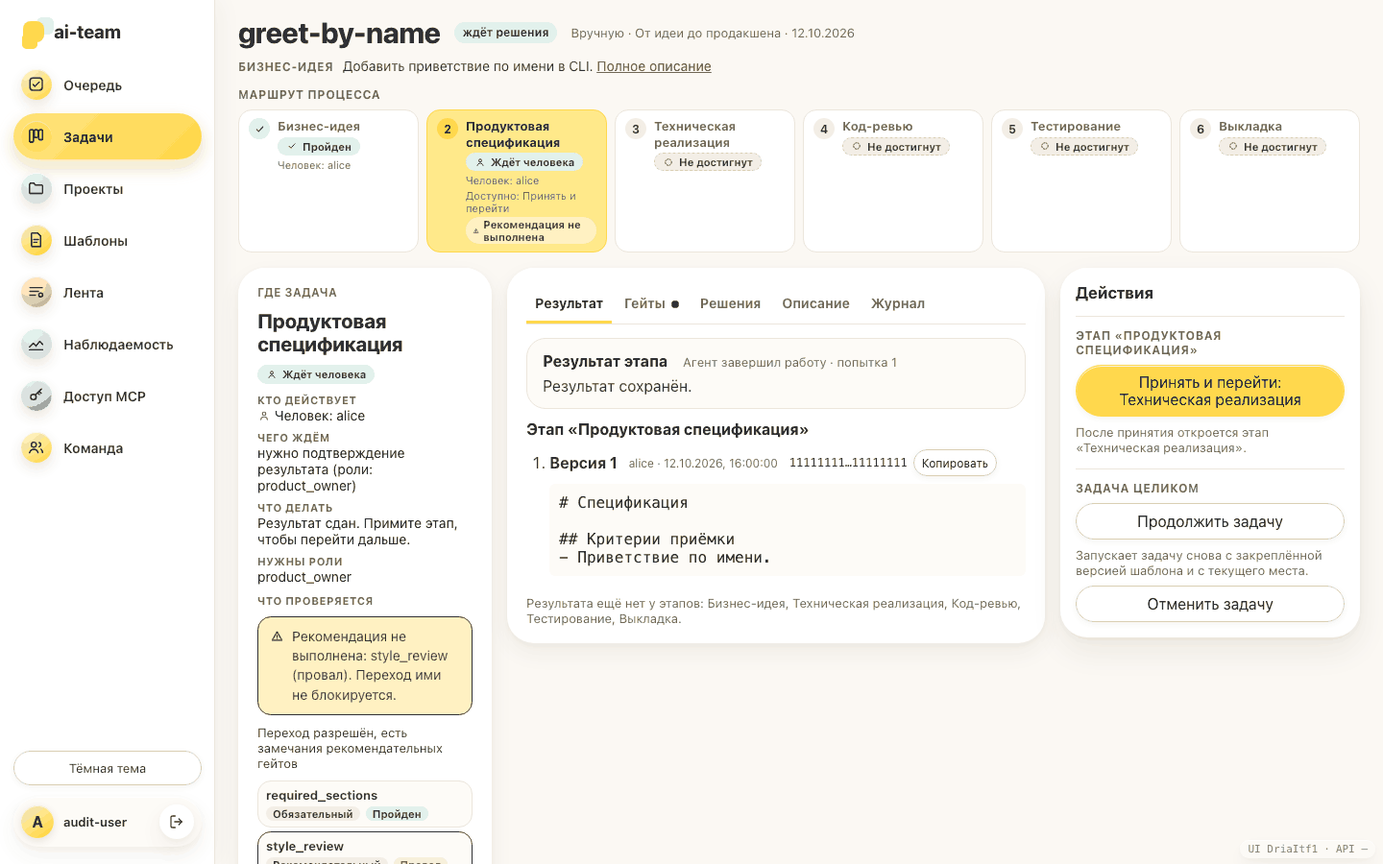
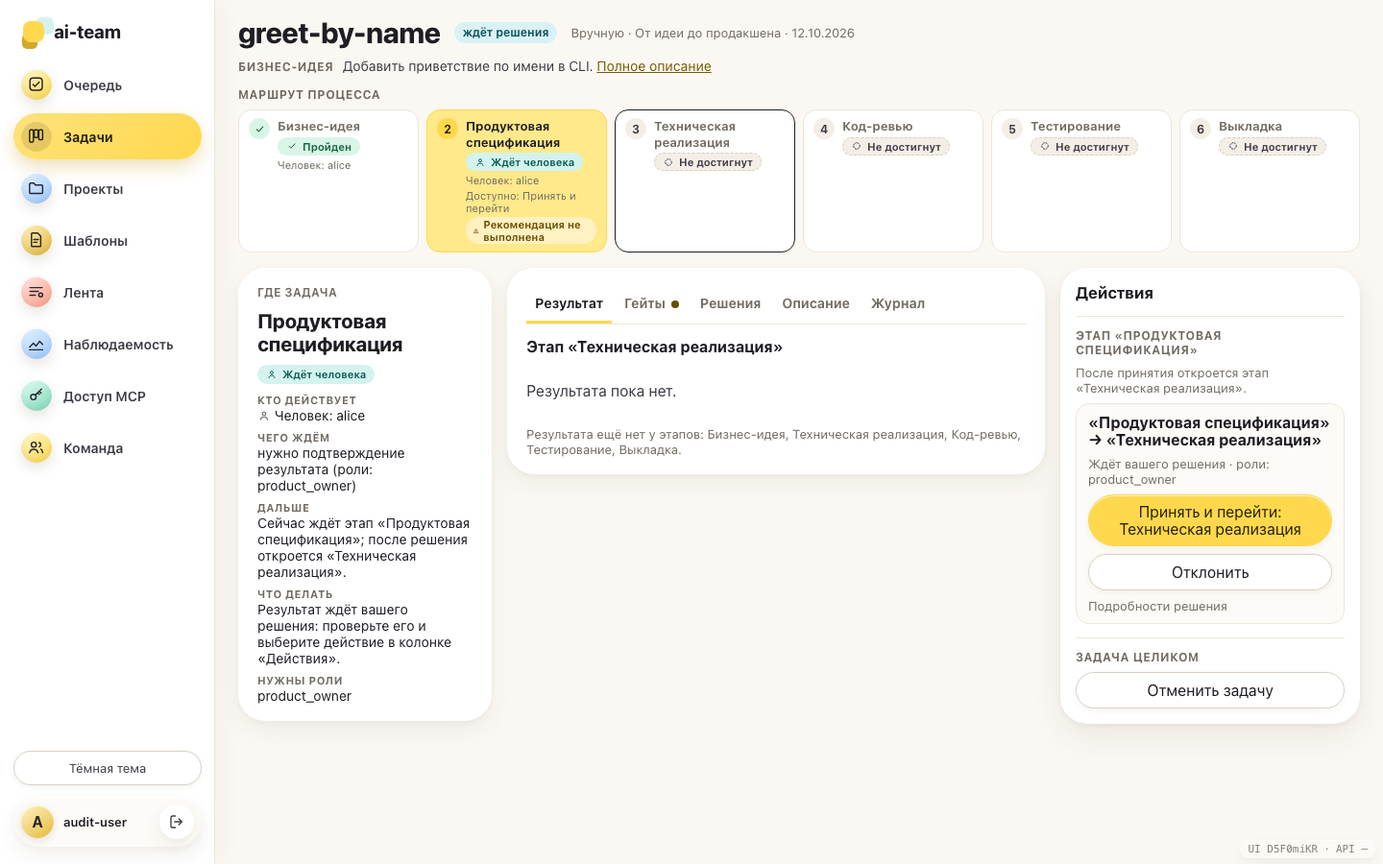
test(web): real-shaped audit fixtures, transition return and focus order specs, refreshed audit README (S16)

diff --git a/web/e2e/audit-fixtures.js b/web/e2e/audit-fixtures.js
@@ -55,9 +55,19 @@ const inputApproval = (stage, roles = ['product_owner']) => ({
   subject_hash: hash('a'), required_roles: roles, quorum: 'any', actions: ['submit', 'run_agent'], status: 'pending', created_at: at,
 })
 
-const checkApproval = (stage, to, roles = ['product_owner'], extra = {}) => ({
-  id: `check-${stage}`, run_id: 'run-audit', attempt_id: `${stage}-attempt`, from_stage: stage, to_stage: to, kind: 'approve', trigger: 'stage_check',
+// The confirmation of a transition as the controller writes it: trigger graph_outcome:<outcome> (a
+// failed check is a check_decision with the trigger stage_check, never this), from_stage is the stage
+// being confirmed, to_stage the stage the task moves to.
+const transitionApproval = (stage, to, roles = ['product_owner'], extra = {}) => ({
+  id: `gate-${stage}`, run_id: 'run-audit', attempt_id: `${stage}-attempt-1`, from_stage: stage, to_stage: to, kind: 'approve', trigger: 'graph_outcome:passed',
   subject_hash: hash('c'), required_roles: roles, quorum: 'any', actions: ['approve', 'reject'], targets: { approve: to }, status: 'pending', created_at: later, ...extra,
+})
+
+// A failed required check: kind check_decision, trigger stage_check, the decision stays at the stage.
+const checkApproval = (stage, roles = ['product_owner'], extra = {}) => ({
+  id: `check-${stage}`, run_id: 'run-audit', attempt_id: `${stage}-attempt-1`, from_stage: stage, to_stage: stage, kind: 'check_decision', trigger: 'stage_check',
+  subject_hash: hash('c'), required_roles: roles, quorum: 'any', actions: ['new_version', 'override', 'return'],
+  targets: { new_version: stage, override: stage, return: stage }, status: 'pending', created_at: later, payload: { kind: 'check_decision', status: 'fail' }, ...extra,
 })
 
 const attempt = (stage, index, status, extra = {}) => ({
@@ -164,14 +174,15 @@ export const scenarios = {
     title: 'Ждёт человека: принять результат',
     roles: ['product_owner'],
     run: { status: 'waiting_for_approval' },
-    state: { phase: 'waiting', next_stage: 'product_spec', pending_approval_id: 'check-product_spec' },
+    // While the confirmation waits the checkpoint already points at the next stage; the stage that waits is product_spec.
+    state: { phase: 'waiting', next_stage: 'implementation', pending_approval_id: 'gate-product_spec' },
     stages: [attempt('product_spec', 1, 'passed')],
-    approvals: [checkApproval('product_spec', 'implementation')],
+    approvals: [transitionApproval('product_spec', 'implementation')],
     results,
     allowed: ['confirm'],
-    statuses: statuses(1, { status: 'awaiting_human', readiness: 'engaged', phase: 'awaiting_human', outcome: 'passed', executor: human('alice'), blocked_by: { kind: 'approval', roles: ['product_owner'], actions: ['approve'] }, allowed_actions: ['confirm'] }),
+    statuses: statuses(1, { status: 'awaiting_human', readiness: 'engaged', phase: 'awaiting_human', outcome: 'passed', executor: human('alice'), blocked_by: { kind: 'approval', roles: ['product_owner'], actions: ['approve'] }, allowed_actions: ['confirm'], action_stage_id: 'implementation' }),
     gates: gatesOf('product_spec', wave('product_spec', [gate('required_sections', 'succeeded', 'pass'), gate('agent_review', 'succeeded', 'pass')], { allowed: true, state: 'passed' })),
-    expect: { chip: 'Ждёт человека', buttons: ['Принять и перейти: Техническая реализация'] },
+    expect: { chip: 'Ждёт человека', buttons: ['Принять и перейти: Техническая реализация'], decides: { stage: 'product_spec', approvalID: 'gate-product_spec', action: 'approve' } },
   },
   grill: {
     title: 'Ждёт человека: вопросы грилла',
@@ -179,7 +190,7 @@ export const scenarios = {
     run: { status: 'waiting_for_approval' },
     state: { phase: 'waiting', next_stage: 'product_spec', pending_approval_id: 'grill-1' },
     stages: [attempt('product_spec', 1, 'passed')],
-    approvals: [{ ...checkApproval('product_spec', 'product_spec'), id: 'grill-1', kind: 'grill_questions', trigger: 'grill_questions', actions: ['answer', 'new_version', 'done'],
+    approvals: [{ ...checkApproval('product_spec'), id: 'grill-1', kind: 'grill_questions', trigger: 'grill_questions', actions: ['answer', 'new_version', 'done'], targets: {},
       payload: { kind: 'grill_questions', round: 1, markdown: '## Вопросы проверки\n\n1. Какой сегмент пользователей проверяем первым?\n2. Что считаем успехом через месяц?' } }],
     allowed: ['grill/answer', 'grill/new-version', 'grill/done'],
     statuses: statuses(1, { status: 'awaiting_human', readiness: 'engaged', phase: 'awaiting_human', outcome: 'pending', executor: human('alice'), blocked_by: { kind: 'grill_questions', roles: ['product_owner'] }, allowed_actions: ['grill/answer', 'grill/new-version', 'grill/done'] }),
@@ -201,8 +212,7 @@ export const scenarios = {
     run: { status: 'waiting_for_approval' },
     state: { phase: 'waiting', next_stage: 'product_spec', pending_approval_id: 'check-failed' },
     stages: [attempt('product_spec', 1, 'passed')],
-    approvals: [{ ...checkApproval('product_spec', 'product_spec', ['product_owner']), id: 'check-failed', kind: 'check_decision', actions: ['new_version', 'override', 'return'],
-      targets: { new_version: 'product_spec', override: 'product_spec', return: 'product_spec' }, payload: { kind: 'check_decision', status: 'fail' } }],
+    approvals: [{ ...checkApproval('product_spec'), id: 'check-failed' }],
     allowed: ['override'],
     statuses: statuses(1, { status: 'blocked', readiness: 'engaged', phase: 'awaiting_human', outcome: 'blocked', executor: human('alice'), blocked_by: { kind: 'check_decision', roles: ['product_owner'] }, allowed_actions: ['override'] }),
     gates: gatesOf('product_spec', wave('product_spec', [gate('required_sections', 'succeeded', 'fail')], { state: 'blocked', reasons: ['нет раздела «Критерии приёмки»'], blocking: ['required_sections'] })),
@@ -273,12 +283,12 @@ export const scenarios = {
     title: 'Рекомендательный гейт не выполнен (янтарный)',
     roles: ['product_owner'],
     run: { status: 'waiting_for_approval' },
-    state: { phase: 'waiting', next_stage: 'product_spec', pending_approval_id: 'check-product_spec' },
+    state: { phase: 'waiting', next_stage: 'implementation', pending_approval_id: 'gate-product_spec' },
     stages: [attempt('product_spec', 1, 'passed')],
-    approvals: [checkApproval('product_spec', 'implementation')],
+    approvals: [transitionApproval('product_spec', 'implementation')],
     results,
     allowed: ['confirm'],
-    statuses: statuses(1, { status: 'awaiting_human', readiness: 'engaged', phase: 'awaiting_human', outcome: 'passed', executor: human('alice'), warnings: 1, blocked_by: { kind: 'approval', roles: ['product_owner'], actions: ['approve'] }, allowed_actions: ['confirm'] }),
+    statuses: statuses(1, { status: 'awaiting_human', readiness: 'engaged', phase: 'awaiting_human', outcome: 'passed', executor: human('alice'), warnings: 1, blocked_by: { kind: 'approval', roles: ['product_owner'], actions: ['approve'] }, allowed_actions: ['confirm'], action_stage_id: 'implementation' }),
     gates: gatesOf('product_spec', wave('product_spec', [gate('required_sections', 'succeeded', 'pass'),
       gate('style_review', 'succeeded', 'fail', { mode: 'advisory', blocking: false, warning: true })], { allowed: true, state: 'passed_with_warnings', warnings: ['style_review'] })),
     expect: { flag: 'advisory', text: 'Рекомендация не выполнена', buttons: ['Принять и перейти: Техническая реализация'] },
@@ -289,7 +299,7 @@ export const scenarios = {
     run: { status: 'waiting_for_approval' },
     state: { phase: 'waiting', next_stage: 'product_spec', pending_approval_id: 'check-failed' },
     stages: [attempt('product_spec', 1, 'passed')],
-    approvals: [{ ...checkApproval('product_spec', 'product_spec'), id: 'check-failed', kind: 'check_decision', actions: ['new_version', 'return', 'retry_gate'], payload: { kind: 'check_decision', status: 'error' } }],
+    approvals: [{ ...checkApproval('product_spec'), id: 'check-failed', actions: ['new_version', 'return', 'retry_gate'], targets: { new_version: 'product_spec', return: 'product_spec', retry_gate: 'product_spec' }, payload: { kind: 'check_decision', status: 'error' } }],
     allowed: ['gate-retry'],
     statuses: statuses(1, { status: 'blocked', readiness: 'engaged', phase: 'awaiting_human', outcome: 'blocked', executor: human('alice'), blocked_by: { kind: 'check_decision', roles: ['product_owner'] }, allowed_actions: ['gate-retry'] }),
     gates: gatesOf('product_spec', wave('product_spec', [gate('agent_review', 'error', undefined, { retryable: true })], { state: 'error', reasons: ['agent_review: runtime недоступен'], retryable: ['agent_review'] })),
@@ -318,18 +328,44 @@ export const scenarios = {
     tracker: { configured: true, tracker: 'fake', sync_status: 'not_linked', link: null, conflicts: [], deliveries: [], inbound: [] },
     expect: { buttons: ['Связать с карточкой', 'Синхронизировать сейчас'], text: 'Не связана с карточкой' },
   },
+  'developer-on-owner-stage': {
+    title: 'Нет прав: разработчик на этапе владельца продукта',
+    roles: ['developer'],
+    run: { status: 'waiting_for_approval' },
+    state: { phase: 'waiting', next_stage: 'product_spec', pending_approval_id: 'input-product_spec' },
+    approvals: [inputApproval('product_spec')],
+    // The server lists what the state offers; the function of the stage is product_owner, so this developer may do none of it.
+    allowed: ['take', 'results', 'executor', 'run-agent'],
+    viewer: [],
+    statuses: statuses(1, { status: 'ready', readiness: 'engaged', phase: 'awaiting_human', outcome: 'pending', executor: human(), blocked_by: { kind: 'human_input' }, allowed_actions: ['take', 'results', 'executor', 'run-agent'] }),
+    expect: { chip: 'Готов к работе', noButtons: ['Сдать результат', 'Взять этап', 'Поручить агенту', 'Пропустить этап'], hint: 'Нужна роль: Владелец продукта' },
+  },
+  // The confirmation of code_review (reviewer) while the task moves to qa: return and skip must address code_review.
+  'transition-return': {
+    title: 'Подтверждение перехода: возврат относится к подтверждаемому этапу',
+    roles: ['reviewer'],
+    run: { status: 'waiting_for_approval' },
+    state: { phase: 'waiting', next_stage: 'qa', pending_approval_id: 'gate-code_review' },
+    stages: [attempt('code_review', 1, 'passed')],
+    approvals: [transitionApproval('code_review', 'qa', ['reviewer'], { actions: ['approve', 'reject', 'return_to_implementation'], targets: { approve: 'qa', return_to_implementation: 'implementation' } })],
+    allowed: ['confirm', 'return'],
+    statuses: statuses(3, { status: 'awaiting_human', readiness: 'engaged', phase: 'awaiting_human', outcome: 'passed', executor: human('bob'), blocked_by: { kind: 'approval', roles: ['reviewer'], actions: ['approve'] }, allowed_actions: ['confirm', 'return'], action_stage_id: 'qa' }),
+    expect: { chip: 'Ждёт человека', buttons: ['Принять и перейти: Тестирование', 'Вернуть на доработку: Техническая реализация'], noButtons: ['Пропустить этап'], decides: { stage: 'code_review', approvalID: 'gate-code_review', action: 'approve' }, returns: { stage: 'code_review', to: 'implementation' } },
+  },
   'no-rights': {
     title: 'Нет прав: разработчик смотрит на решение владельца',
     roles: ['developer'],
     run: { status: 'waiting_for_approval' },
-    state: { phase: 'waiting', next_stage: 'product_spec', pending_approval_id: 'check-product_spec' },
+    state: { phase: 'waiting', next_stage: 'implementation', pending_approval_id: 'gate-product_spec' },
     stages: [attempt('product_spec', 1, 'passed')],
-    approvals: [checkApproval('product_spec', 'implementation')],
+    approvals: [transitionApproval('product_spec', 'implementation')],
     results,
-    allowed: [],
-    statuses: statuses(1, { status: 'awaiting_human', readiness: 'engaged', phase: 'awaiting_human', outcome: 'passed', executor: human('alice'), blocked_by: { kind: 'approval', roles: ['product_owner'], actions: ['approve'] }, allowed_actions: [] }),
+    // The server offers the confirmation to anyone (allowed_actions); viewer_actions is what this principal may do: nothing.
+    allowed: ['confirm'],
+    viewer: [],
+    statuses: statuses(1, { status: 'awaiting_human', readiness: 'engaged', phase: 'awaiting_human', outcome: 'passed', executor: human('alice'), blocked_by: { kind: 'approval', roles: ['product_owner'], actions: ['approve'] }, allowed_actions: ['confirm'], action_stage_id: 'implementation' }),
     tracker: { configured: true, tracker: 'fake', sync_status: 'ok', link: trackerLink, conflicts: [], deliveries: [], inbound: [] },
-    expect: { chip: 'Ждёт человека', noButtons: ['Принять и перейти'], hint: 'Ответить или решить может участник с ролью: product_owner', trackerHint: 'Связь с карточкой меняют: Владелец продукта, Архитектор' },
+    expect: { chip: 'Ждёт человека', noButtons: ['Принять и перейти'], hint: 'Нужна роль: Владелец продукта. Без неё недоступно: Принять и перейти', trackerHint: 'Связь с карточкой меняют: Владелец продукта, Архитектор' },
   },
 }
 
@@ -341,7 +377,7 @@ export function detail(id, options = {}) {
     template: { valid: true, template: 'idea-to-prod', title: 'От идеи до продакшена', version: 'f'.repeat(64), ...template },
     state: { run_id: 'run-audit', task: 'Добавить приветствие по имени', phase: 'running', next_stage: '', attempt_ordinal: 1, ...scenario.state },
     stages: scenario.stages ?? [], approvals: scenario.approvals ?? [], stage_owners: scenario.owners ?? {}, results: scenario.results ?? {},
-    allowed_actions: scenario.allowed ?? [], delivery: scenario.delivery ?? { status: 'not_requested' }, stage_statuses: scenario.statuses,
+    allowed_actions: scenario.allowed ?? [], viewer_actions: scenario.viewer ?? scenario.allowed ?? [], delivery: scenario.delivery ?? { status: 'not_requested' }, stage_statuses: scenario.statuses,
     ...(options.extra ?? {}),
   }
 }

diff --git a/web/e2e/ui-audit.spec.js b/web/e2e/ui-audit.spec.js
@@ -89,6 +89,8 @@ for (const [id, scenario] of Object.entries(scenarios)) {
       if (want.trackerHint) await expect(actions).toContainText(want.trackerHint)
       if (want.flag) await expect(page.locator(`[data-gate-flag="${want.flag}"]`).first()).toBeVisible()
       if (want.noActions) await expect(actions.getByTestId('no-actions')).toBeVisible()
+      // The role hint is shown instead of the buttons the viewer may not use.
+      if (id === 'developer-on-owner-stage') await expect(actions.getByTestId('role-needed')).toBeVisible()
 
       // No two buttons with the same name in the actions column (one meaning, one button).
       const names = (await actions.getByRole('button').allInnerTexts()).map((text) => text.replace(/\s+/g, ' ').trim()).filter(Boolean)
@@ -119,6 +121,53 @@ for (const [id, scenario] of Object.entries(scenarios)) {
     }
   })
 }
+
+test.describe('real requests of the task page', () => {
+  async function record(page) {
+    const calls = []
+    await page.route('**/api/**', async (route) => {
+      const request = route.request()
+      if (request.method() !== 'GET') {
+        calls.push({ method: request.method(), path: new URL(request.url()).pathname, body: request.postDataJSON?.() ?? null })
+        return route.fulfill({ status: 200, json: { status: 'resolved', approval: { status: 'pending' } } })
+      }
+      return route.fallback()
+    })
+    return calls
+  }
+
+  test('accepting a transition goes through the decision card with the exact subject hash', async ({ page }) => {
+    await page.addInitScript(() => { try { localStorage.setItem('ai-team:theme', 'light') } catch {} })
+    await page.setViewportSize({ width: 1440, height: 900 })
+    await installApi(page, 'awaiting-human')
+    const calls = await record(page)
+    await page.goto(`${baseURL}/tasks/run-audit`)
+    const actions = page.getByRole('complementary', { name: 'Действия' })
+    await expect(actions.getByRole('region', { name: 'Этап «Продуктовая спецификация»' })).toBeVisible()
+    await actions.getByRole('button', { name: 'Принять и перейти: Техническая реализация', exact: true }).click()
+    await expect.poll(() => calls.length).toBeGreaterThan(0)
+    const decision = calls.find((call) => call.path === '/api/runs/run-audit/approvals/gate-product_spec/decisions')
+    expect(decision, JSON.stringify(calls)).toBeTruthy()
+    expect(JSON.stringify(decision.body)).toContain('"approve"')
+    expect(JSON.stringify(decision.body)).toContain('cccccccccccccccc')
+  })
+
+  test('a return while a transition waits addresses the completed stage, once, without a skip', async ({ page }) => {
+    await page.setViewportSize({ width: 1440, height: 900 })
+    await installApi(page, 'transition-return')
+    const calls = await record(page)
+    await page.goto(`${baseURL}/tasks/run-audit`)
+    const actions = page.getByRole('complementary', { name: 'Действия' })
+    await expect(actions.getByRole('region', { name: 'Этап «Код-ревью»' })).toBeVisible()
+    await expect(actions.getByRole('button', { name: /^Вернуть на доработку/ })).toHaveCount(1)
+    await expect(actions.getByRole('button', { name: 'Пропустить этап' })).toHaveCount(0)
+    await actions.getByLabel('Причина возврата').fill('Не хватает тестов')
+    await actions.getByRole('button', { name: 'Вернуть на доработку: Техническая реализация', exact: true }).click()
+    await expect.poll(() => calls.length).toBeGreaterThan(0)
+    expect(calls[0].path).toBe('/api/runs/run-audit/stages/code_review/return')
+    expect(calls[0].body).toMatchObject({ to_stage: 'implementation', reason: 'Не хватает тестов' })
+  })
+})
 
 test.describe('stable columns', () => {
   test('the actions column does not grow when the log, artifacts and events are huge', async ({ page }) => {
@@ -177,16 +226,40 @@ test.describe('keyboard and focus', () => {
     await expect(page.getByRole('tabpanel')).toBeFocused()
   })
 
-  test('the decision buttons are in the tab order after the status column and before the materials', async ({ page }) => {
-    await open(page, 'awaiting-human', { width: 390, height: 844 })
-    const order = await page.evaluate(() => {
-      const focusable = [...document.querySelectorAll('button, a[href], input, textarea, select, summary, [tabindex="0"]')]
-        .filter((element) => element.getBoundingClientRect().width > 0)
-      const index = (selector) => focusable.findIndex((element) => element.matches(selector) || element.closest(selector))
-      return { route: index('[aria-label="Маршрут процесса"], section[class*="routePanel"]'), actions: index('aside[aria-label="Действия"]'), tabs: index('[role="tablist"]') }
-    })
+  // The focus order is the visual order at every width: status, materials, actions. The skip link
+  // «К действиям» is the first stop in the header and jumps to the actions column.
+  const focusOrder = (page) => page.evaluate(() => {
+    const focusable = [...document.querySelectorAll('button, a[href], input, textarea, select, summary, [tabindex="0"]')]
+      .filter((element) => element.getBoundingClientRect().width > 0)
+    const index = (selector) => focusable.findIndex((element) => element.matches(selector) || element.closest(selector))
+    const position = (selector) => { const box = document.querySelector(selector)?.getBoundingClientRect(); return box ? { x: box.x, y: box.y } : null }
+    return {
+      status: index('aside[aria-label="Статус и контекст"]'), tabs: index('[role="tablist"]'), actions: index('aside[aria-label="Действия"]'),
+      at: { status: position('aside[aria-label="Статус и контекст"]'), tabs: position('[role="tablist"]'), actions: position('aside[aria-label="Действия"]') },
+    }
+  })
+
+  test('on a desktop the tab order is the visual order: status, materials, actions', async ({ page }) => {
+    await open(page, 'awaiting-human', { width: 1600, height: 900 })
+    const order = await focusOrder(page)
     expect(order.actions).toBeGreaterThan(-1)
-    expect(order.actions).toBeLessThan(order.tabs)
+    expect(order.status).toBeLessThan(order.tabs)
+    expect(order.tabs).toBeLessThan(order.actions)
+    // Visually the same: the materials sit between the status column and the actions column.
+    expect(order.at.status.x).toBeLessThan(order.at.tabs.x)
+    expect(order.at.tabs.x).toBeLessThan(order.at.actions.x)
+  })
+
+  test('on a phone the order is the same and the skip link reaches the actions', async ({ page }) => {
+    await open(page, 'awaiting-human', { width: 390, height: 844 })
+    const order = await focusOrder(page)
+    expect(order.status).toBeLessThan(order.tabs)
+    expect(order.tabs).toBeLessThan(order.actions)
+    expect(order.at.tabs.y).toBeLessThan(order.at.actions.y)
+    const skip = page.getByRole('link', { name: 'К действиям' })
+    await expect(skip).toBeVisible()
+    await skip.click()
+    await expect(page).toHaveURL(/#task-actions$/)
   })
 })
 
@@ -274,7 +347,9 @@ test.describe('empty and error states', () => {
     await page.goto(`${baseURL}/team`)
     await page.getByRole('button', { name: 'Изменить роли: qa@example.com' }).click()
     await expect(page.getByRole('group', { name: 'Роли: qa@example.com' }).getByRole('checkbox', { name: /Администратор/ })).toBeDisabled()
-    await expect(page.getByRole('button', { name: 'Изменить роли: owner@example.com' })).toBeDisabled()
+    // The server blocks a product owner only from the administrator right itself and from revoking an administrator.
+    await expect(page.getByRole('button', { name: 'Изменить роли: owner@example.com' })).toBeEnabled()
+    await expect(page.getByRole('button', { name: 'Отозвать доступ: owner@example.com' })).toBeDisabled()
   })
 
   test('tracker overview lists open requests and failed deliveries', async ({ page }) => {

diff --git a/web/e2e/task-detail-flow.spec.js b/web/e2e/task-detail-flow.spec.js
@@ -97,9 +97,14 @@ function allowedActions(template, stageID, phase, pending) {
   const actions = []
   if (!stageID) return actions
   const stage = template.stages.find((value) => value.id === stageID)
+  let skipOffered = false
+  // A return route starts at the stage a person confirms: the approval's from_stage.
+  let returnFrom = stageID
   if (phase === 'resumable' && stage?.agent) actions.push('run-agent')
   if (phase === 'waiting' && pending?.status === 'pending') {
+    if (pending.from_stage) returnFrom = pending.from_stage
     if (pending.kind === 'input' && pending.trigger === 'human_input') {
+      skipOffered = true
       actions.push('take', 'results')
       if (stage?.agent) actions.push('executor', 'run-agent')
     } else if (pending.kind === 'grill_questions') {
@@ -114,8 +119,8 @@ function allowedActions(template, stageID, phase, pending) {
       if (stage?.agent && pending.actions.includes('retry')) actions.push('run-agent')
     }
   }
-  if (stage?.skippable && (phase === 'waiting' || phase === 'resumable')) actions.push('skip')
-  if (stage && phase === 'waiting' && template.returns.some((route) => route.from === stageID)) actions.push('return')
+  if (stage?.skippable && ((phase === 'waiting' && skipOffered) || phase === 'resumable')) actions.push('skip')
+  if (stage && phase === 'waiting' && template.returns.some((route) => route.from === returnFrom)) actions.push('return')
   return [...new Set(actions)]
 }
 
@@ -161,6 +166,8 @@ function detail(mode, { stage: currentStage, phase, status, pending, owners }) {
     approvals: [...(approval ? [approval] : []), ...resolvedGrill], stage_owners: owners,
     results: mode === 'manual' ? { idea: [revision('idea-v1', 'Первая версия идеи', 1), revision('idea-v2', 'Вторая версия идеи', 2)] } : {},
     allowed_actions: allowedActions(pinned, currentStage, phase, approval), delivery: { status: 'not_requested' },
+    // The browser user of this flow holds every function, so the server lets them do all that is offered.
+    viewer_actions: allowedActions(pinned, currentStage, phase, approval),
   }
 }
 

diff --git a/docs/ui-audit/README.md b/docs/ui-audit/README.md
@@ -22,8 +22,13 @@
    обход администратором с причиной), техническая архитектура, связь задачи с
    карточкой DEMO-1/DEMO-2, «Синхронизировать сейчас». Снимки `real-*.png`.
 3. **Матрица ролей** — модульные тесты (`TaskDetail.layout.test.tsx`,
-   `permissions.test.ts`) и фикстура «нет прав»: что видят владелец продукта,
-   архитектор, разработчик, ревьюер, тестировщик, менеджер выпуска и администратор.
+   `permissions.test.ts`), Go-тест `viewer_actions` против реальных запросов и
+   фикстуры «нет прав» и «разработчик на этапе владельца»: что видят владелец
+   продукта, архитектор, разработчик, ревьюер, тестировщик, менеджер выпуска и
+   администратор. Фикстуры собраны в форме реальных данных: подтверждение перехода —
+   `kind: approve` с триггером `graph_outcome:<исход>` и `from_stage` ≠ `next_stage`;
+   `stage_check` — только `check_decision`. Принятие идёт через настоящий путь
+   карточки решения (`POST …/approvals/{id}/decisions` с `subject_hash`).
 
 ## Найдено и исправлено
 
@@ -36,7 +41,7 @@
 | Маршрут «змейкой» с кружками и сырыми id этапов | Полоса этапов: статус, исполнитель, посещения, «Доступно: …»; на 390 px два столбца без прокрутки |
 | Заголовок этапа брался из checkpoint и спорил с чипом статуса другого этапа | Заголовок и чип берут этап из проекции S11, «Дальше: …» объясняет переход |
 | Остановившаяся задача: «Этап не выбран», пустое `Этап «»`, причина спрятана в «Подробностях» | «Остановилась на этапе «X»», короткая причина видна сразу |
-| Порядок фокуса не совпадал с визуальным (вкладки раньше действий) | Порядок DOM: статус, действия, материалы; ссылка «К действиям»; вкладки по паттерну tablist (стрелки, Home, End) |
+| Порядок фокуса не совпадал с визуальным: в DOM шли статус, действия, материалы, а на десктопе глаз видит статус, материалы, действия | Порядок DOM равен визуальному на каждой ширине (сетка по областям, без `order`): статус, «Требует внимания», материалы, действия; на телефоне действия идут после материалов, поэтому ссылка «К действиям» в шапке видна и ведёт к колонке; вкладки по паттерну tablist (стрелки, Home, End), `aria-controls` указывает только на существующую панель. Тесты порядка: десктоп и телефон в `ui-audit.spec.js`, DOM в `TaskDetail.layout.test.tsx` |
 
 ### Названия и дубли
 
@@ -47,7 +52,8 @@
 | «Принять»: Подтвердить и перейти / Принять и перейти / Согласовать / Согласовать ТЗ… / Подтвердить план / Подтвердить результат; «Сдать»: Сдать / Отправить результат; обход: «Обойти проверку» и «Подтвердить без проверки»; новая версия: два названия; повтор: «Повторить на той же версии» и «Повторить одобренную Git-доставку»; лог: «лог этапа» и «лог агента»; три «Изменить: …» | Единый словарь `web/src/actionLabels.ts`; тест не допускает двух глаголов с одним названием |
 | На данных: подтверждение этапа и решение «approve» одного согласования давали две кнопки «Принять и перейти» | Одна кнопка; решение принимается ролью, которую называет согласование |
 | На данных: для этапа с результатом «approve» рядом стояли «Принять» и «Сдать результат» | Принимается решением, второй кнопки нет; «Принять» без «перейти: <тот же этап>» |
-| На данных: «Вернуть на доработку» в карточке решения и в форме исключений | Возврат всегда называет этап: «Вернуть на доработку: <этап>» |
+| На данных: «Вернуть на доработку» в карточке решения (`return_to_X`) и в форме исключений | Один путь: форма «Исключения» (возврат с причиной через `/return`); решение не дублирует маршрут, который она уже предлагает; название везде «Вернуть на доработку: <этап>» |
+| Пока ждёт подтверждение перехода, `state.next_stage` — этап назначения, а подтверждается `from_stage`; «Вернуть», «Пропустить» и «Обойти» целились в `next_stage`, заголовок группы — в другой этап | Маршруты возврата, возврат, подтверждение и заголовок берут один этап: `from_stage` ожидающего подтверждения, иначе этап проекции S11. Сервер перестал предлагать `skip` вне ввода человека и считает `return` от `from_stage`. Тесты: vitest и сценарий `transition-return` (запрос уходит на `/stages/code_review/return`) |
 | Жёлтая кнопка могла оказаться «Отклонить» | Главная кнопка одна и не отказ, не возврат, не обход |
 
 ### Скрытые функции
@@ -64,6 +70,8 @@
 | Что было | Что сделано |
 |---|---|
 | Кнопки «Продолжить», «Отменить», «Повторить доставку» видели все | Только роли из серверной таблицы; остальным «Продолжить задачу могут: …» |
+| Действия над этапом («Взять этап», «Сдать результат», «Пропустить», «Поручить агенту», «Принять», «Вернуть») показывались по `allowed_actions`, которое от роли не зависит: разработчик на этапе владельца продукта видел кнопки и получал 403 | Сервер отдаёт в `GET /api/runs/{id}` аддитивное поле `viewer_actions`: часть `allowed_actions`, разрешённая именно этому участнику теми же проверками, что и выполнение (функция этапа, право администратора, роли плана, самоподтверждение). Кнопка показывается по пересечению; без права вместо кнопок «Нужна роль: …». Таблицу прав в интерфейс не копировали. Тест `viewer_actions` против реальных запросов (`pkg/web/viewer_actions_test.go`) |
+| Редактирование ролей администратора блокировалось для владельца продукта целиком, хотя сервер запрещает только менять само право `admin` | Кнопка «Изменить роли» доступна, флажок «Администратор» заблокирован; отзыв доступа администратора по-прежнему только администратору |
 | «Создать задачу» только владельцу продукта, хотя сервер разрешает и архитектору | `web/src/permissions.ts` повторяет `cloudidentity.Authorize` (тест на всю матрицу) |
 | В подсказке ролей и на странице команды не было «администратор» | Добавлено |
 | Пустая колонка действий без объяснения | «Сейчас у вас нет доступных действий. Ждём: … Ваши роли: …» |
@@ -117,18 +125,25 @@
 
 ## Что осталось и ограничения
 
-- **Сервер (не UI): подтверждение по `POST /api/runs/{id}/stages/{stage}/confirm`
-  берёт роль из функции *следующего* этапа.** Для согласования «спецификация →
-  архитектура» (роль `product_owner`) пользователь со всеми ролями получает
-  `роль не назначена на это решение` (`pkg/web/task_api.go:taskActionActor`).
-  Интерфейс обходит это: пока доступно решение «approve» согласования, он
-  отправляет его (роль берётся из `required_roles`), а кнопку подтверждения этапа
-  показывает только когда решения нет. Поведение подтверждения для MCP (S13)
-  стоит проверить отдельно.
+- Ошибка сервера с ролью подтверждения (`/confirm` брал функцию следующего этапа)
+  исправлена в S13: подтверждение принимает `stage_id` подтверждаемого этапа
+  (`from_stage` согласования) и проверяет функцию именно его. Интерфейс больше ничего
+  не обходит: подтверждение этапа без карточки решения идёт через `/confirm` с этим
+  этапом, а карточка решения (`graph_outcome:<исход>`) остаётся единым путём
+  принятия, пока она есть. Сквозной проход подтверждения на реальном сервере и по MCP
+  входит в S17.
+- `viewer_actions` не заменяет окончательную проверку: сервер по-прежнему отвечает
+  403 на действие без права; поле нужно только чтобы не показывать кнопку, которая
+  заведомо не сработает. Локальный режим без облачной сессии получает пустой список,
+  как и сами обработчики (они требуют сессию).
+- Снимки новых и изменённых состояний (`awaiting-human-*`, `advisory-*`, `no-rights-*`,
+  `developer-on-owner-stage-*`, `transition-return-*`) сняты без сжатия палитры и
+  тяжелее прежних; остальные сохранены как были.
 - В `PipelineCard` карточка с `role="link"` содержит кнопку «Отменить задачу»
   (вложенный интерактивный элемент); не менялось.
-- На телефоне до колонки действий идут меню, маршрут и статус; смягчено ссылкой
-  «К действиям», но первый экран по-прежнему занят меню Layout.
+- На телефоне до колонки действий идут меню, маршрут, статус и материалы (порядок
+  фокуса равен визуальному); смягчено видимой ссылкой «К действиям», но первый экран
+  по-прежнему занят меню Layout.
 - «Лента», «Наблюдаемость», «Шаблоны» и просмотр артефакта прошли только проход по
   словарю, правам и цвету, без перерисовки.
 - Состояния, которых нет в локальном демо без Docker и без облачной личности
